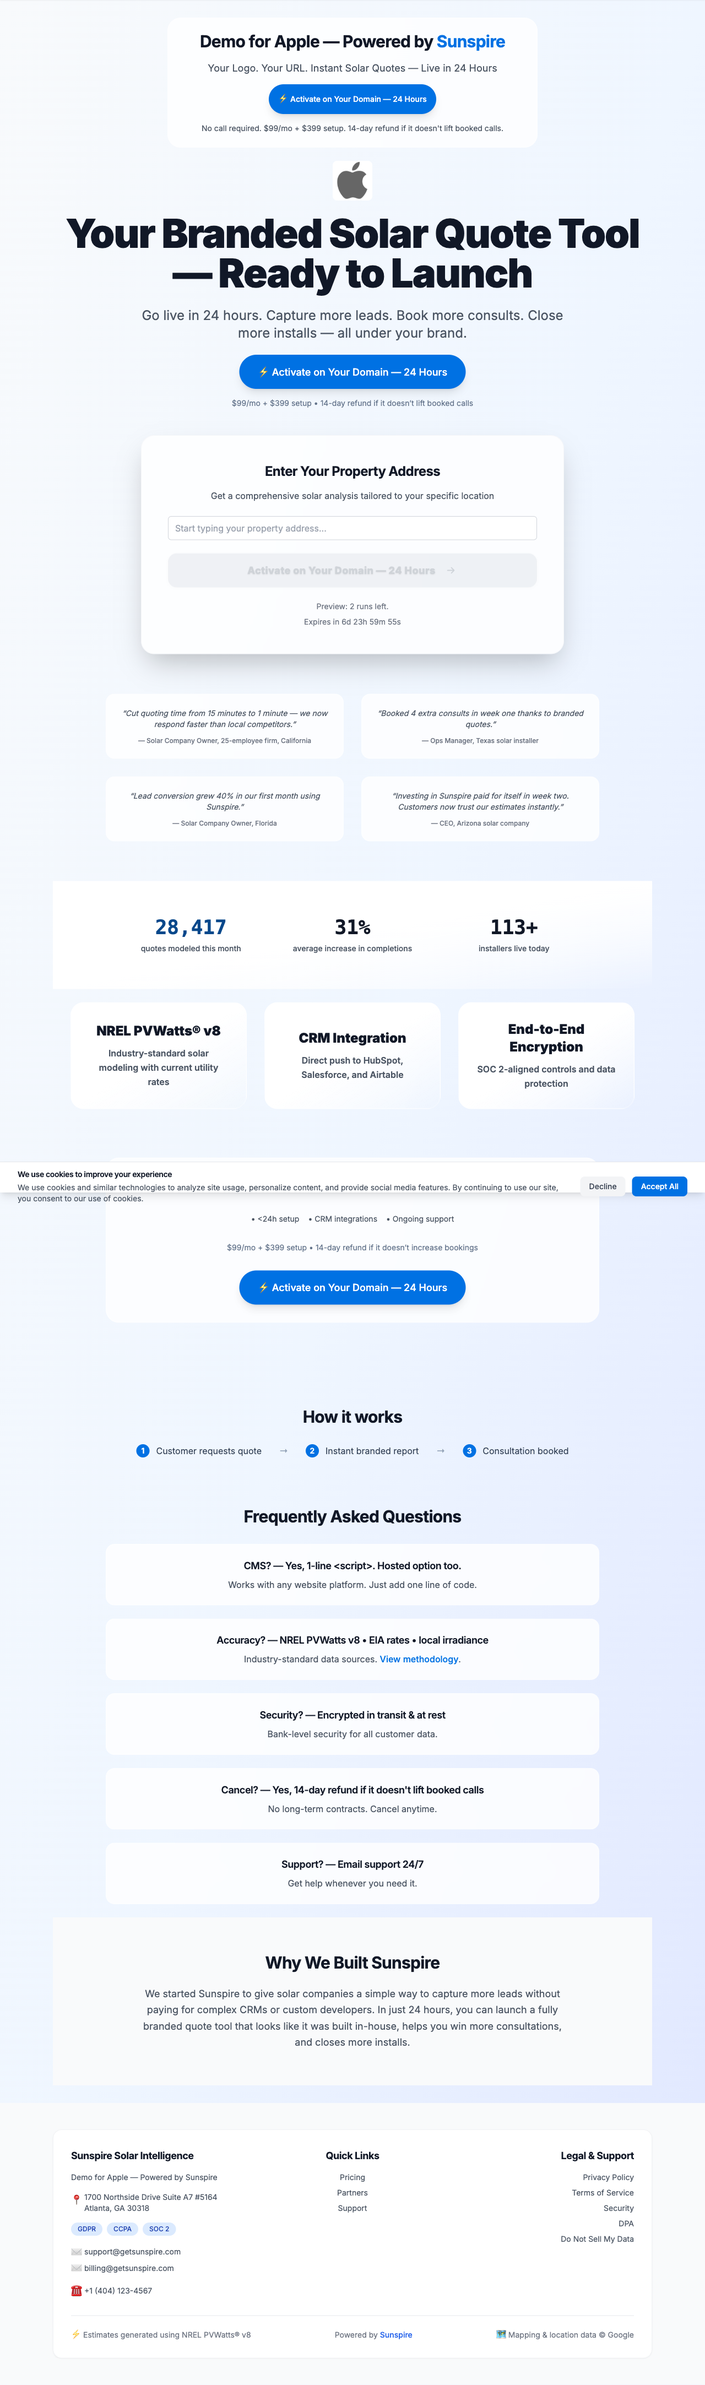
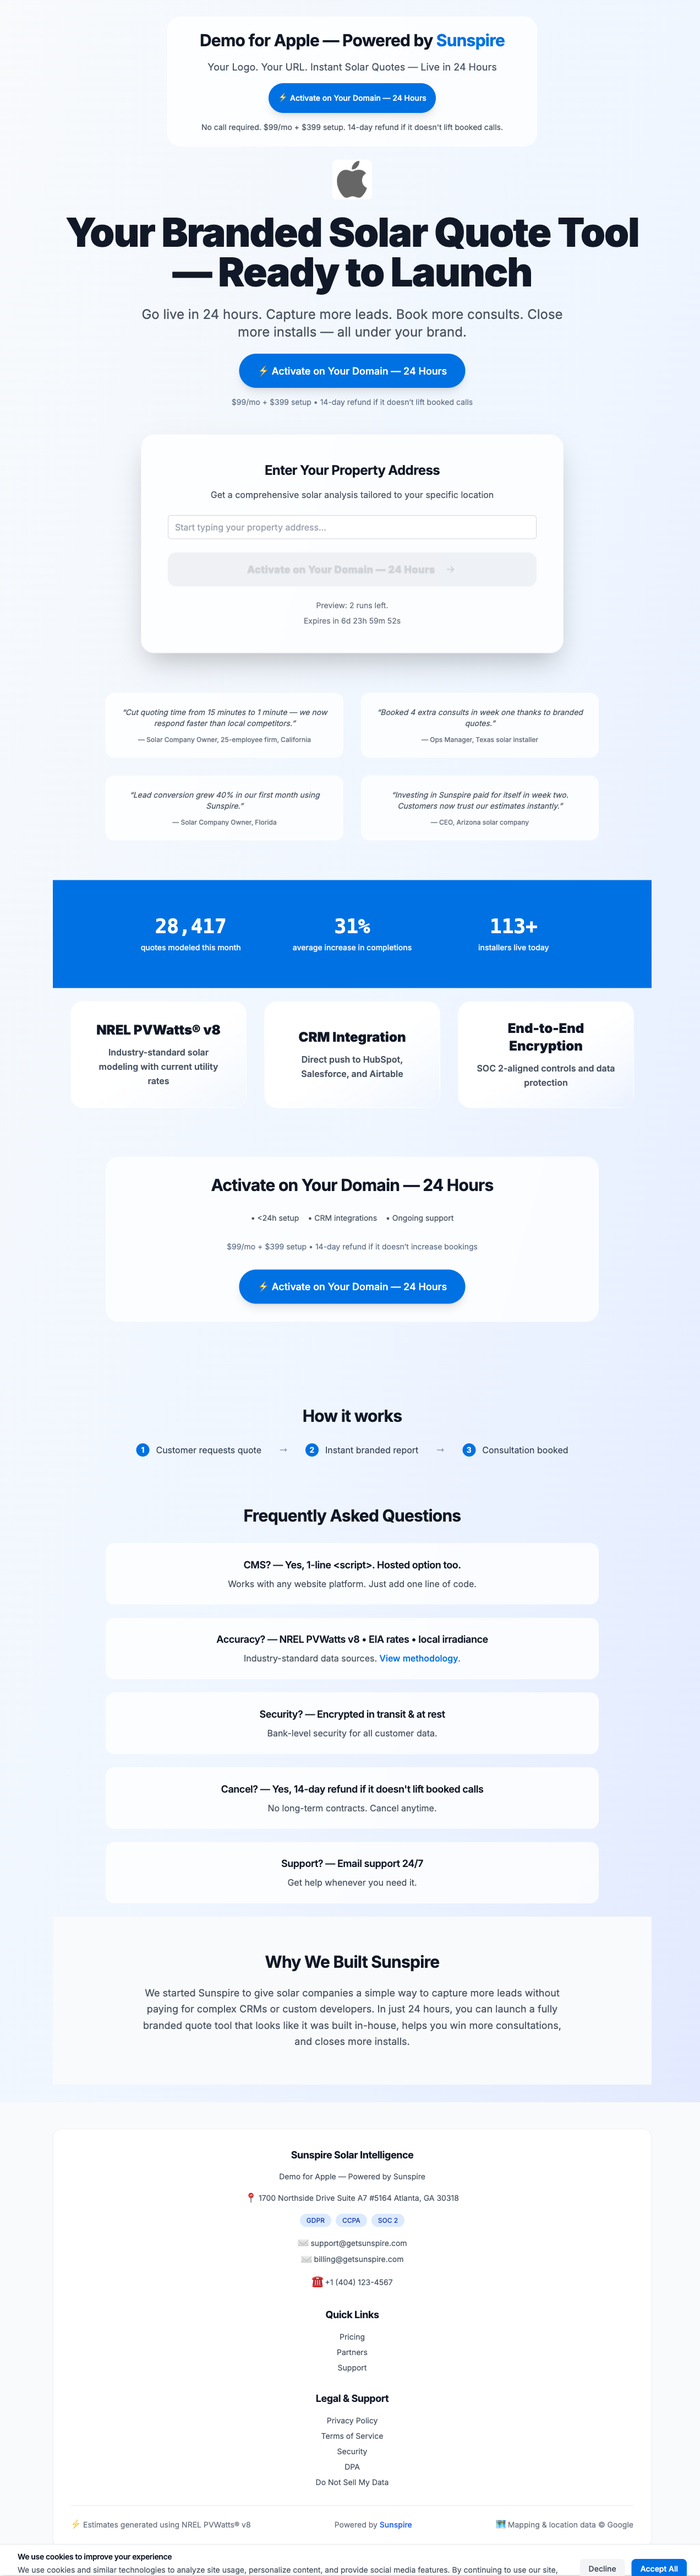
Apply brand-gradient to KPI band and center all footer content in the footer box

diff --git a/components/Footer.tsx b/components/Footer.tsx
@@ -11,20 +11,20 @@ export default function Footer() {
       <div className="max-w-6xl mx-auto px-4 sm:px-6 lg:px-8">
         {/* Main footer content in rounded card */}
         <div className="bg-white rounded-2xl p-8 shadow-sm border border-gray-200/50">
-          <div className="grid grid-cols-1 md:grid-cols-3 gap-8 md:gap-20">
-            {/* Column 1: Company Info */}
-            <div className="space-y-4">
+          <div className="flex flex-col items-center space-y-8">
+            {/* Company Info - Centered */}
+            <div className="text-center space-y-4">
               <h3 className="text-lg font-bold text-gray-900">Sunspire Solar Intelligence</h3>
               <p className="text-sm text-gray-600">Demo for {brand} — Powered by Sunspire</p>
               
               {/* Address with emoji */}
-              <div className="flex items-start space-x-2">
-                <span className="text-gray-500 mt-0.5">📍</span>
+              <div className="flex items-center justify-center space-x-2">
+                <span className="text-gray-500">📍</span>
                 <span className="text-sm text-gray-600">1700 Northside Drive Suite A7 #5164 Atlanta, GA 30318</span>
               </div>
               
               {/* Compliance chips */}
-              <div className="flex flex-wrap gap-2">
+              <div className="flex flex-wrap justify-center gap-2">
                 <span className="px-3 py-1 bg-blue-100 text-blue-800 text-xs rounded-full font-medium">GDPR</span>
                 <span className="px-3 py-1 bg-blue-100 text-blue-800 text-xs rounded-full font-medium">CCPA</span>
                 <span className="px-3 py-1 bg-blue-100 text-blue-800 text-xs rounded-full font-medium">SOC 2</span>
@@ -32,24 +32,24 @@ export default function Footer() {
               
               {/* Email addresses with emoji */}
               <div className="space-y-1">
-                <div className="flex items-center space-x-2">
+                <div className="flex items-center justify-center space-x-2">
                   <span className="text-gray-500">✉</span>
                   <span className="text-sm text-gray-600">support@getsunspire.com</span>
                 </div>
-                <div className="flex items-center space-x-2">
+                <div className="flex items-center justify-center space-x-2">
                   <span className="text-gray-500">✉</span>
                   <span className="text-sm text-gray-600">billing@getsunspire.com</span>
                 </div>
               </div>
               
               {/* Phone with emoji */}
-              <div className="flex items-center space-x-2">
+              <div className="flex items-center justify-center space-x-2">
                 <span className="text-gray-500">☎</span>
                 <span className="text-sm text-gray-600">+1 (404) 123-4567</span>
               </div>
             </div>
 
-            {/* Column 2: Quick Links */}
+            {/* Quick Links - Centered */}
             <div className="text-center">
               <h3 className="text-lg font-bold text-gray-900 mb-4">Quick Links</h3>
               <div className="space-y-2">
@@ -59,8 +59,8 @@ export default function Footer() {
               </div>
             </div>
 
-            {/* Column 3: Legal & Support */}
-            <div className="text-right">
+            {/* Legal & Support - Centered */}
+            <div className="text-center">
               <h3 className="text-lg font-bold text-gray-900 mb-4">Legal & Support</h3>
               <div className="space-y-2">
                 <a href="/privacy" className="block text-sm text-gray-600 hover:text-gray-900 transition-colors duration-200">Privacy Policy</a>

diff --git a/app/page.tsx b/app/page.tsx
@@ -464,21 +464,20 @@ function HomeContent() {
           </div>
 
           {/* KPI Band - Single band only */}
-          <div className="py-16 bg-gradient-to-br from-white via-white to-[var(--brand-primary)]/40 relative">
-            <div className="absolute inset-0 bg-gradient-to-br from-transparent via-white/60 to-[var(--brand-primary)]/40 opacity-100"></div>
-            <div className="max-w-4xl mx-auto px-4 sm:px-6 lg:px-8 relative z-10">
+          <div className="py-16 brand-gradient">
+            <div className="max-w-4xl mx-auto px-4 sm:px-6 lg:px-8">
               <div className="grid grid-cols-3 gap-12 text-center">
                 <div className="group">
-                  <div className="text-4xl font-black text-gray-900 font-mono group-hover:text-[var(--brand-primary)] transition-colors duration-300">28,417</div>
-                  <div className="text-sm text-gray-600 font-medium mt-2">quotes modeled this month</div>
+                  <div className="text-4xl font-black text-white font-mono group-hover:text-gray-200 transition-colors duration-300">28,417</div>
+                  <div className="text-sm text-white/90 font-medium mt-2">quotes modeled this month</div>
                 </div>
                 <div className="group">
-                  <div className="text-4xl font-black text-gray-900 font-mono group-hover:text-[var(--brand-primary)] transition-colors duration-300">31%</div>
-                  <div className="text-sm text-gray-600 font-medium mt-2">average increase in completions</div>
+                  <div className="text-4xl font-black text-white font-mono group-hover:text-gray-200 transition-colors duration-300">31%</div>
+                  <div className="text-sm text-white/90 font-medium mt-2">average increase in completions</div>
                 </div>
                 <div className="group">
-                  <div className="text-4xl font-black text-gray-900 font-mono group-hover:text-[var(--brand-primary)] transition-colors duration-300">113+</div>
-                  <div className="text-sm text-gray-600 font-medium mt-2">installers live today</div>
+                  <div className="text-4xl font-black text-white font-mono group-hover:text-gray-200 transition-colors duration-300">113+</div>
+                  <div className="text-sm text-white/90 font-medium mt-2">installers live today</div>
                 </div>
               </div>
             </div>
